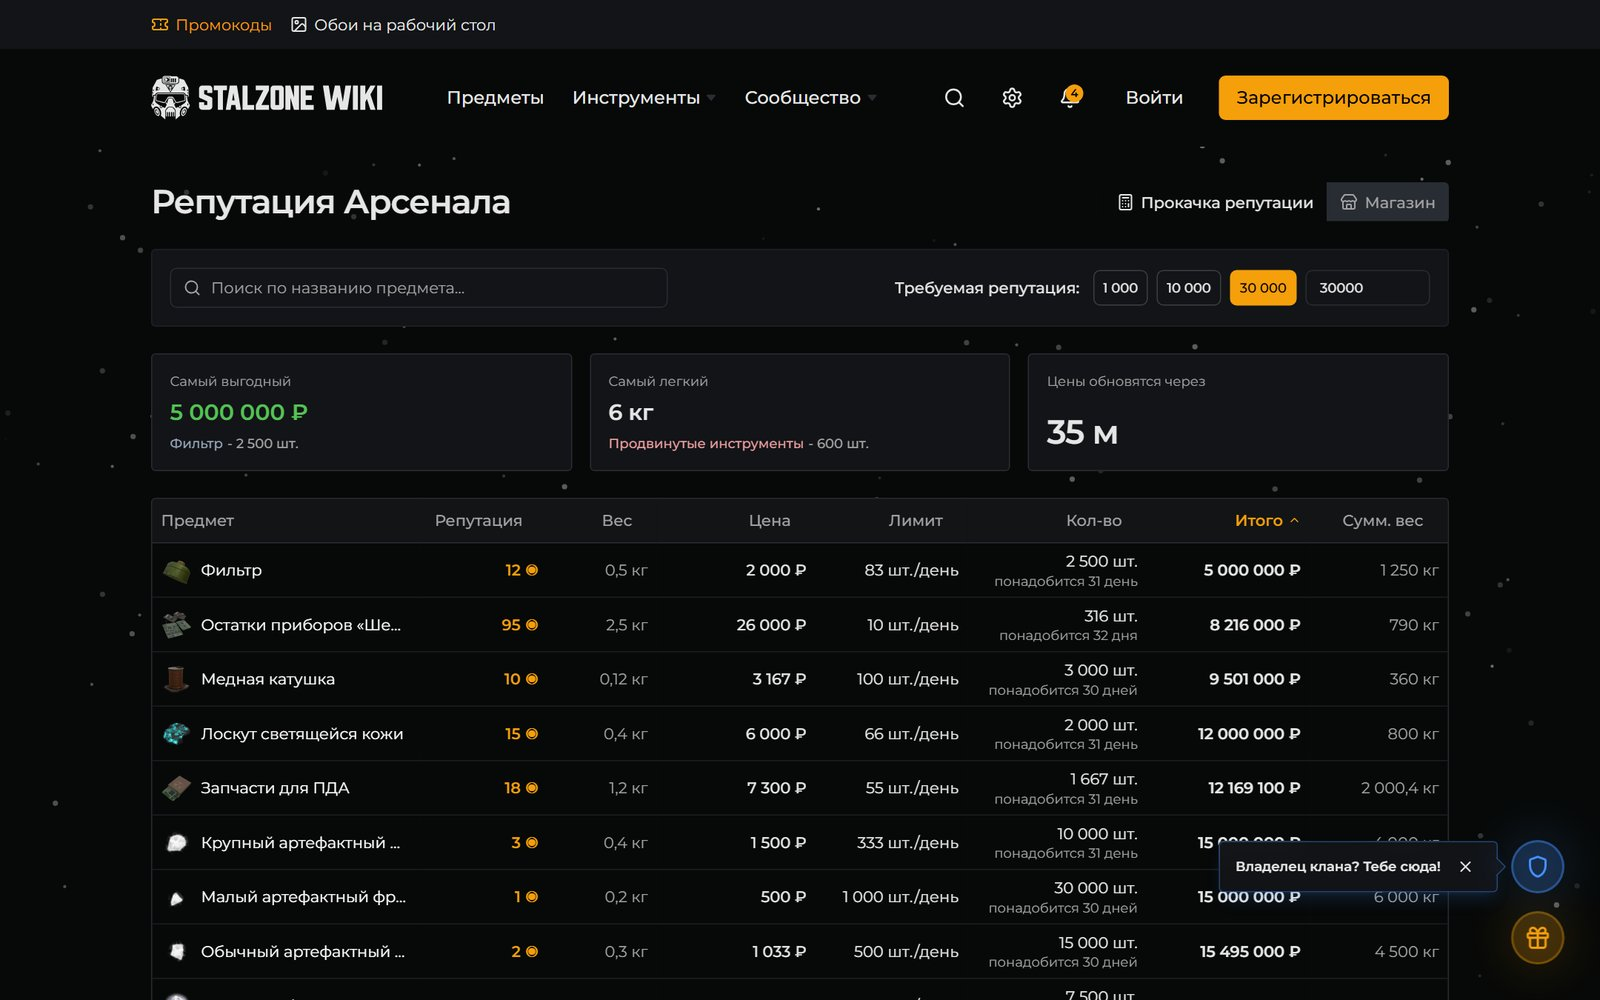
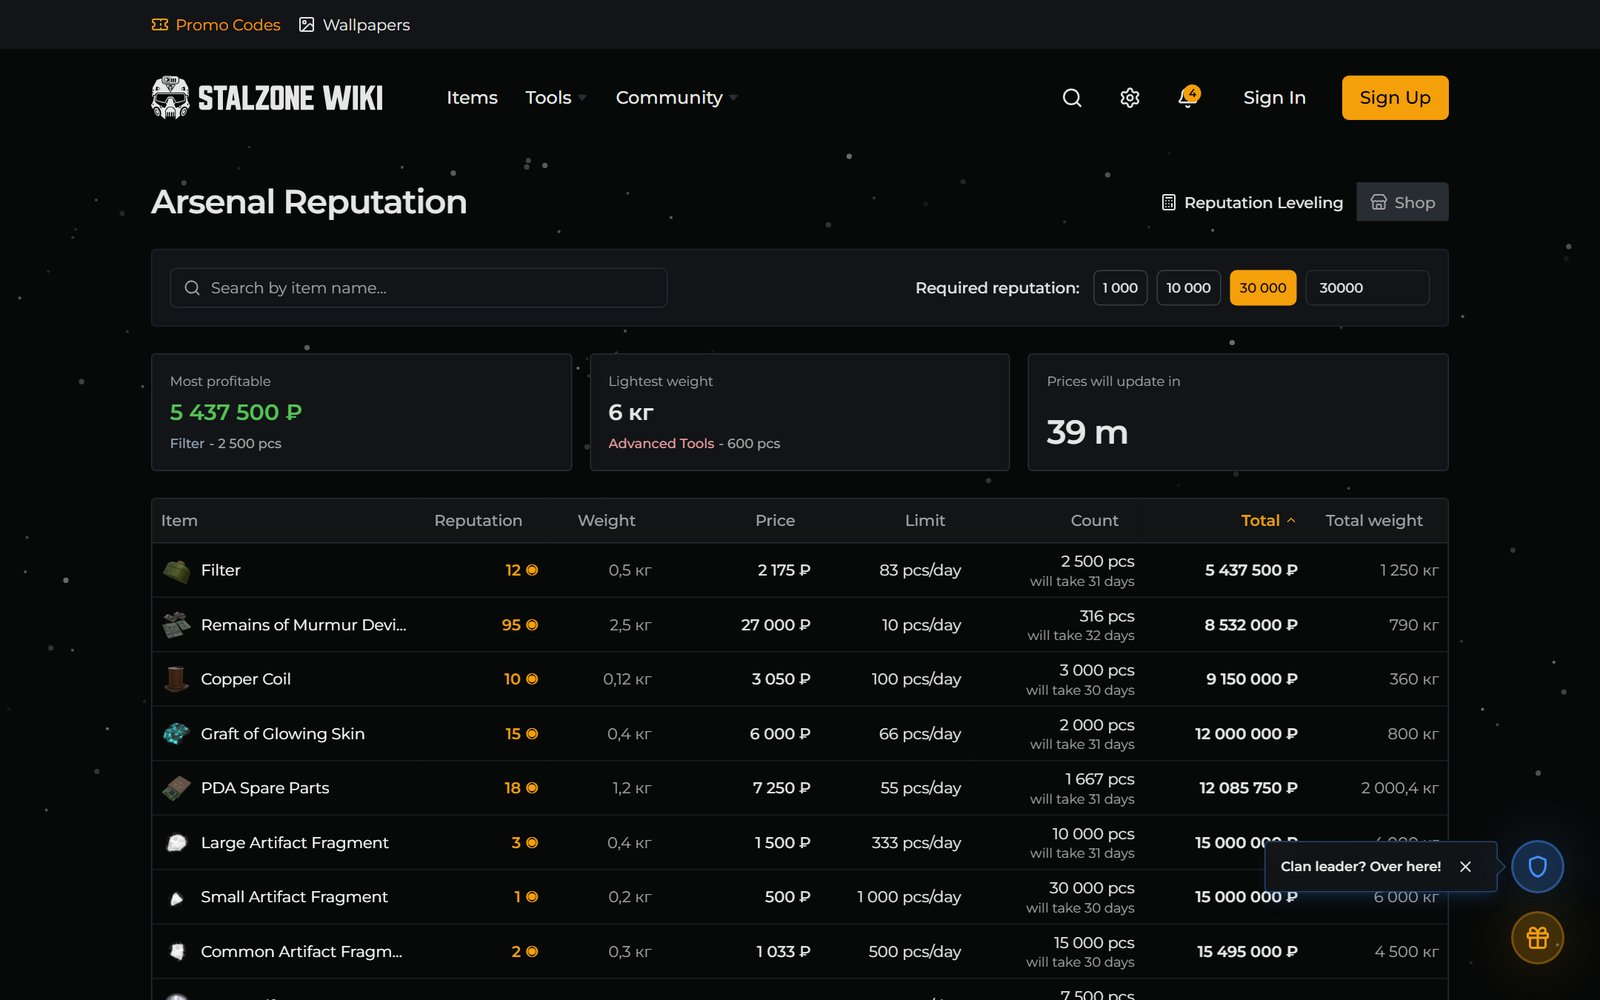
Use English screenshots from stalzone.wiki/en

diff --git a/README.md b/README.md
@@ -2,7 +2,7 @@
 
 The most visited fan site for the game STALZONE (formerly STALCRAFT): item database, interactive map, auction price history, calculators and player accounts.
 
-[stalzone.wiki](https://stalzone.wiki) (formerly stalcraft.wiki; the game was renamed from STALCRAFT to STALZONE) · [Discord](https://discord.gg/YGnhb2UD9E)
+[stalzone.wiki](https://stalzone.wiki/en) (formerly stalcraft.wiki; the game was renamed from STALCRAFT to STALZONE) · [Discord](https://discord.gg/YGnhb2UD9E)
 
 > Source code is private (Stalcraft-Dev-Team). This repository describes the project and my role.
 
